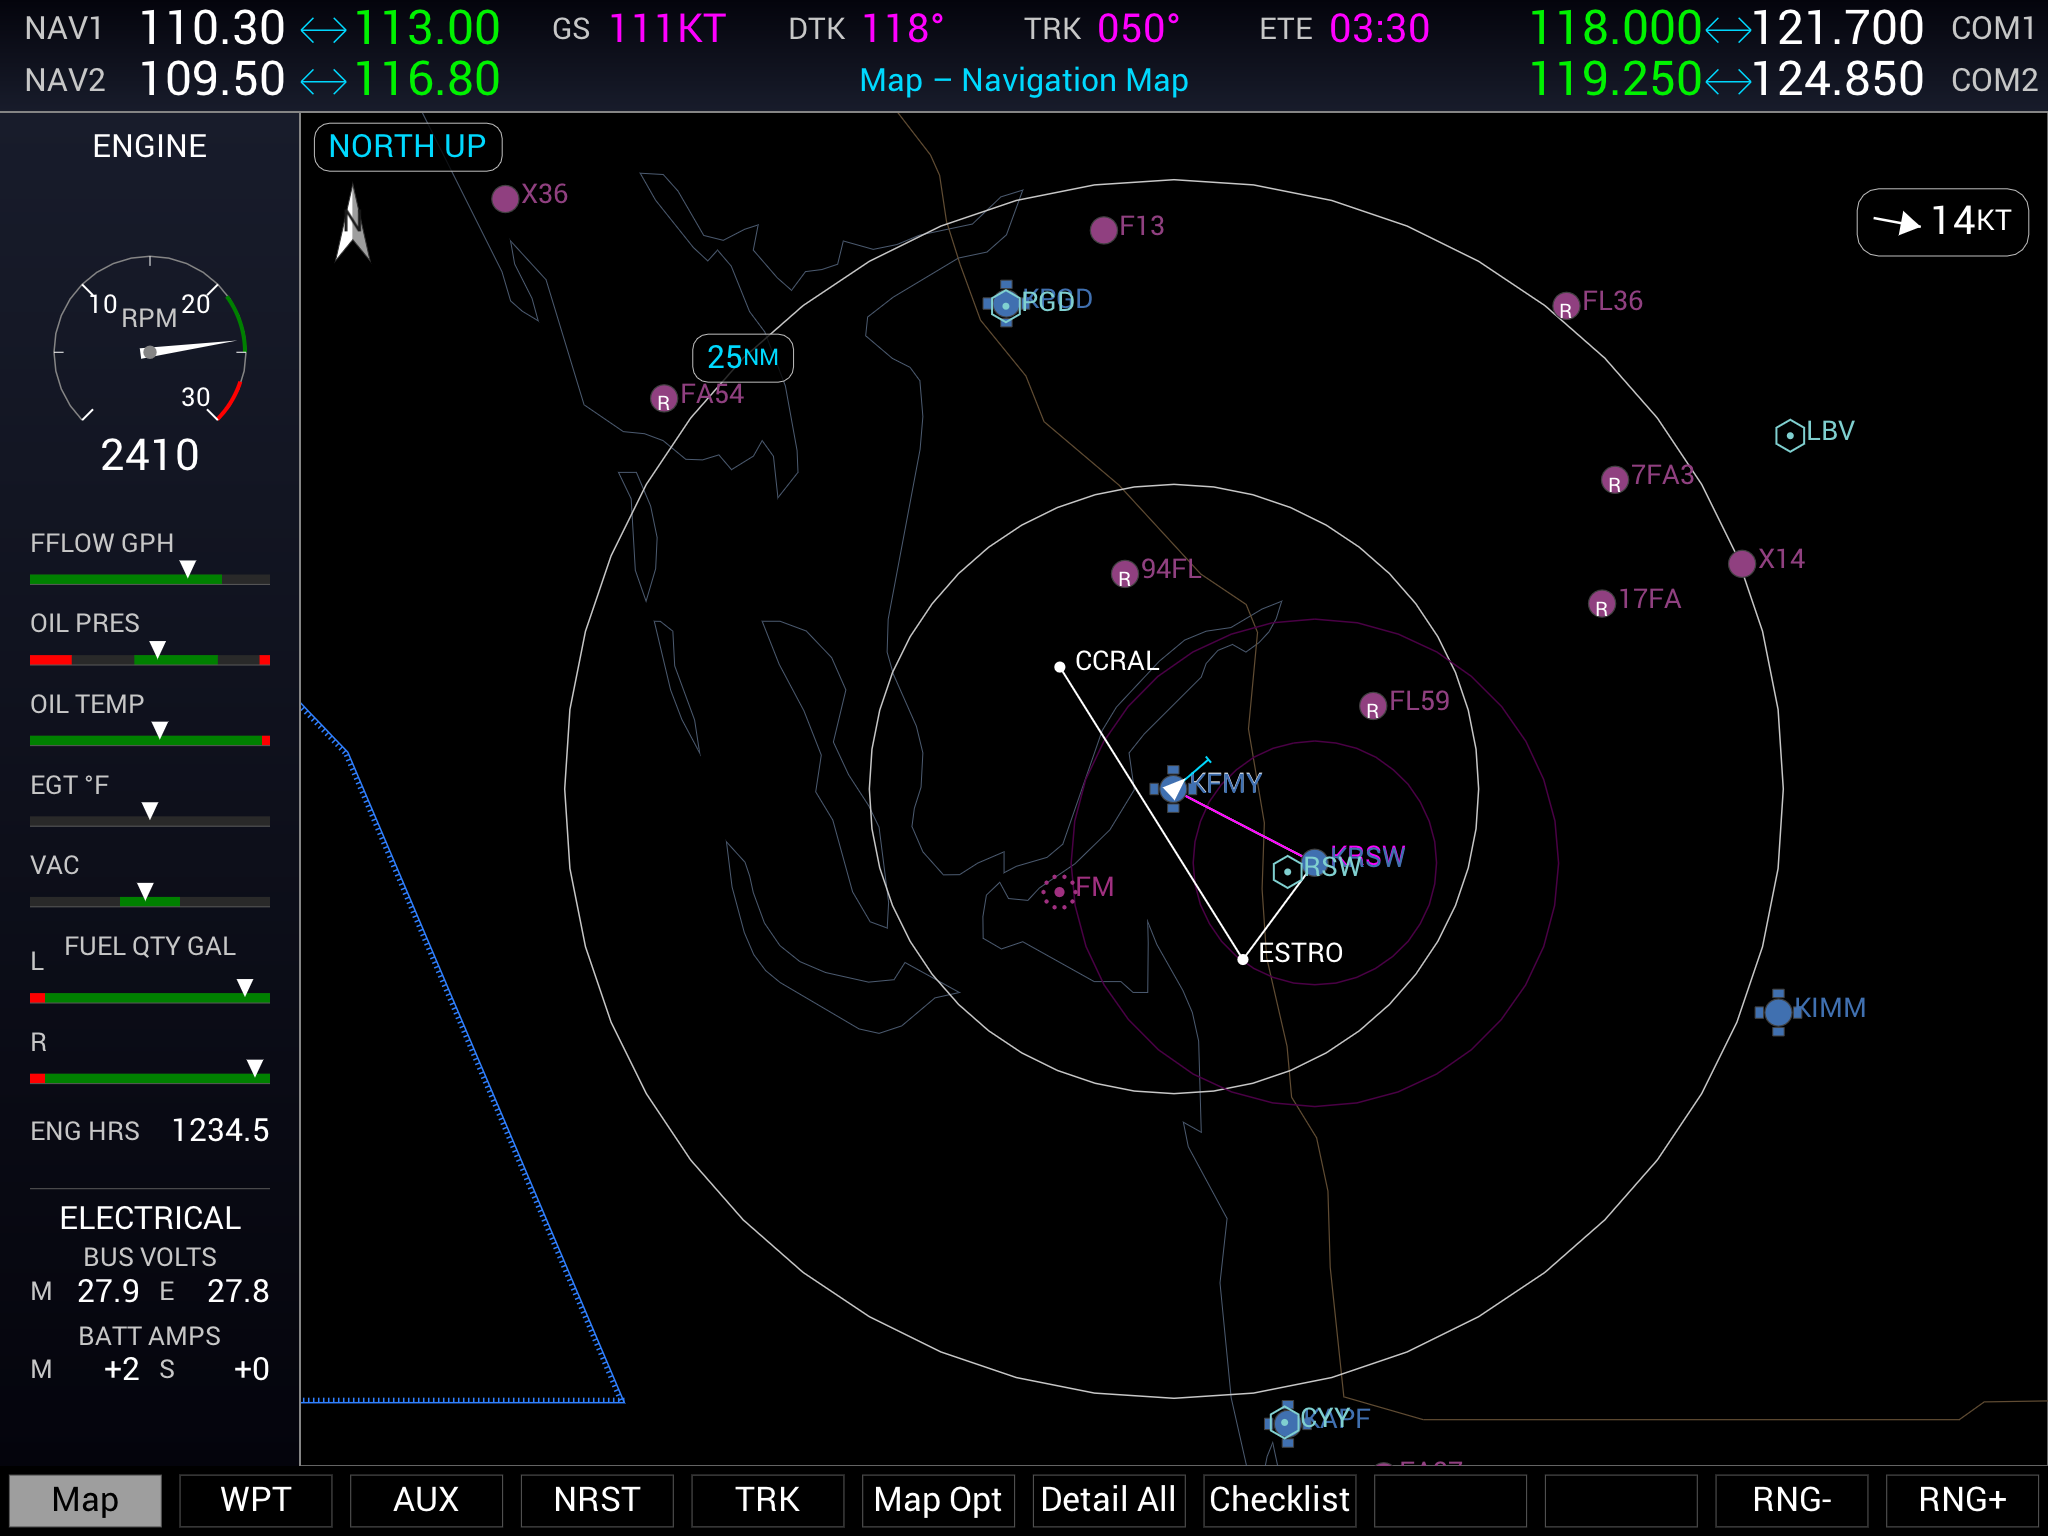
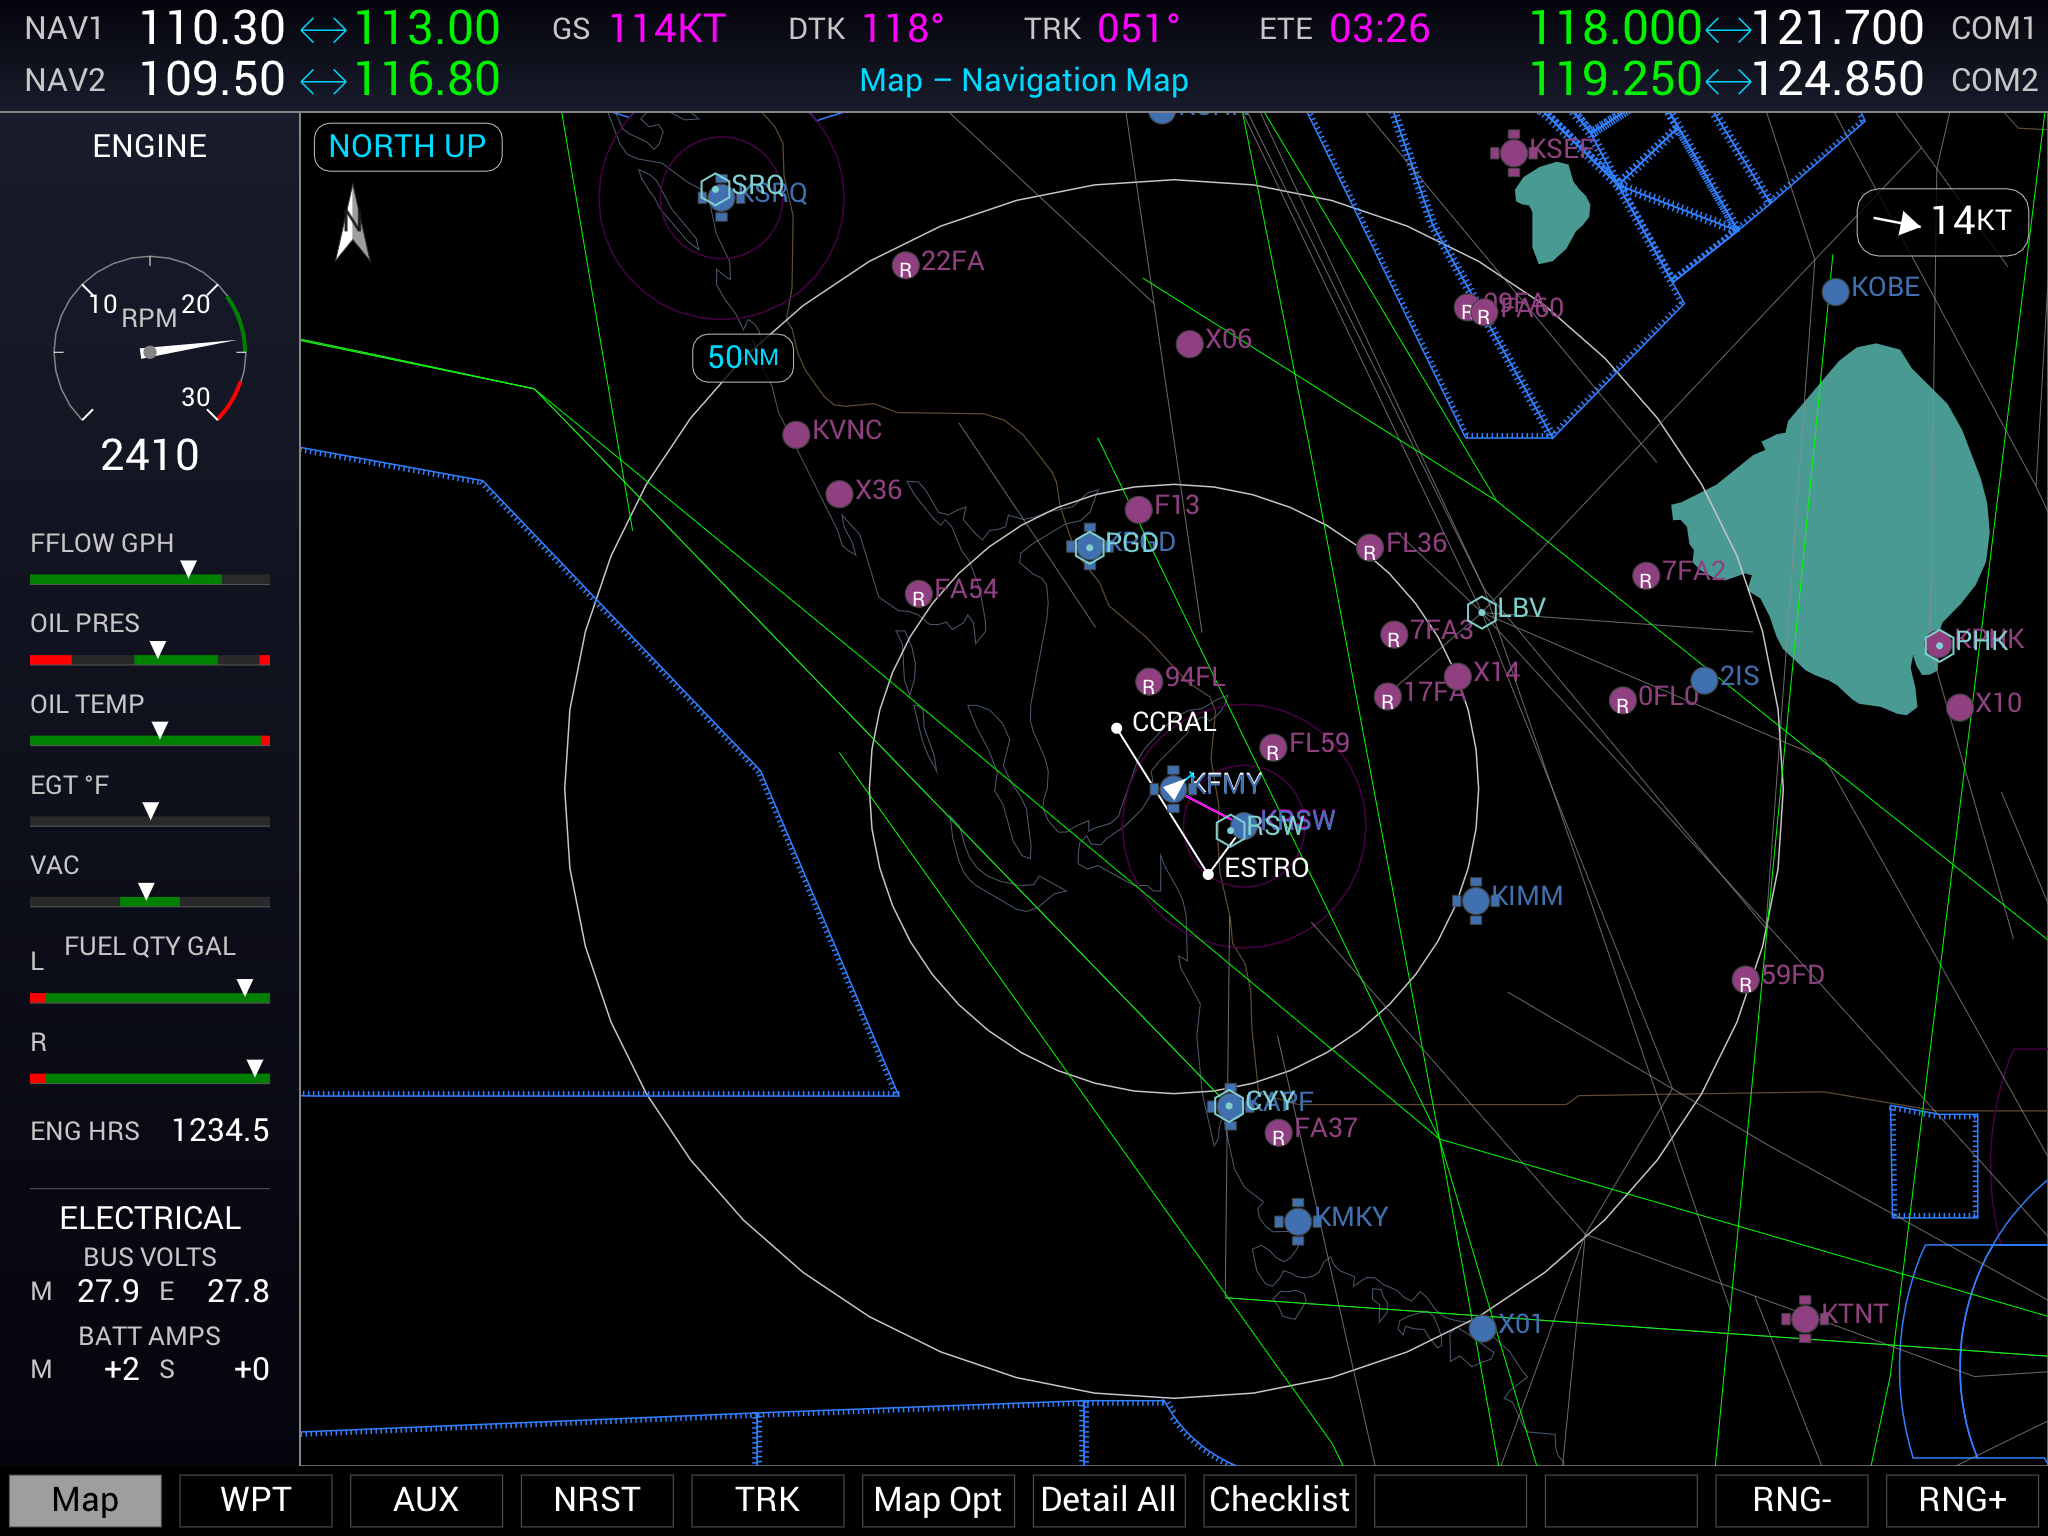
Refresh the README MFD screenshot at 50 NM with airways enabled.
Add a reusable mfdawy screenshot state so the wider MAP view with AWY On can be regenerated for docs.

diff --git a/shell-standalone/src/main.cpp b/shell-standalone/src/main.cpp
@@ -609,6 +609,22 @@ int RunScreenshot(const char* path, double seconds, const char* state,
     engine.pressSoftkey(3);  // "AWY" Off -> On
     for (int i = 0; i < 30; ++i) engine.update(1.0 / 60.0);
     RenderSuiteSettled(renderer, engine, fbWidth, fbHeight, showBezel);
+  } else if (state != nullptr && std::strcmp(state, "mfdawy") == 0) {
+    // The MAP page zoomed to 50 NM with low/high airways enabled (AWY On),
+    // then back on the root bar so the view matches the standard MAP capture
+    // with the airway network drawn.
+    engine.setPage(avionics::DisplayPage::MultiFunctionDisplay);
+    engine.skipBoot();
+    engine.update(seconds);
+    for (int p = 0; p < 3; ++p) {  // RNG+ -> 50 NM
+      engine.pressBezelKey(avionics::BezelKey::RangeUp);
+      for (int i = 0; i < 20; ++i) engine.update(1.0 / 60.0);
+    }
+    engine.pressSoftkey(5);   // "Map Opt" -> open submenu
+    engine.pressSoftkey(3);   // "AWY" Off -> On
+    engine.pressSoftkey(11);  // "Back" -> root bar
+    for (int i = 0; i < 60; ++i) engine.update(1.0 / 60.0);
+    RenderSuiteSettled(renderer, engine, fbWidth, fbHeight, showBezel);
   } else if (state != nullptr && std::strcmp(state, "mfdwx") == 0) {
     // The MAP page with the NEXRAD precipitation overlay enabled, zoomed out
     // so the (forward-range) mock weather cells are on screen. Zoom first on
